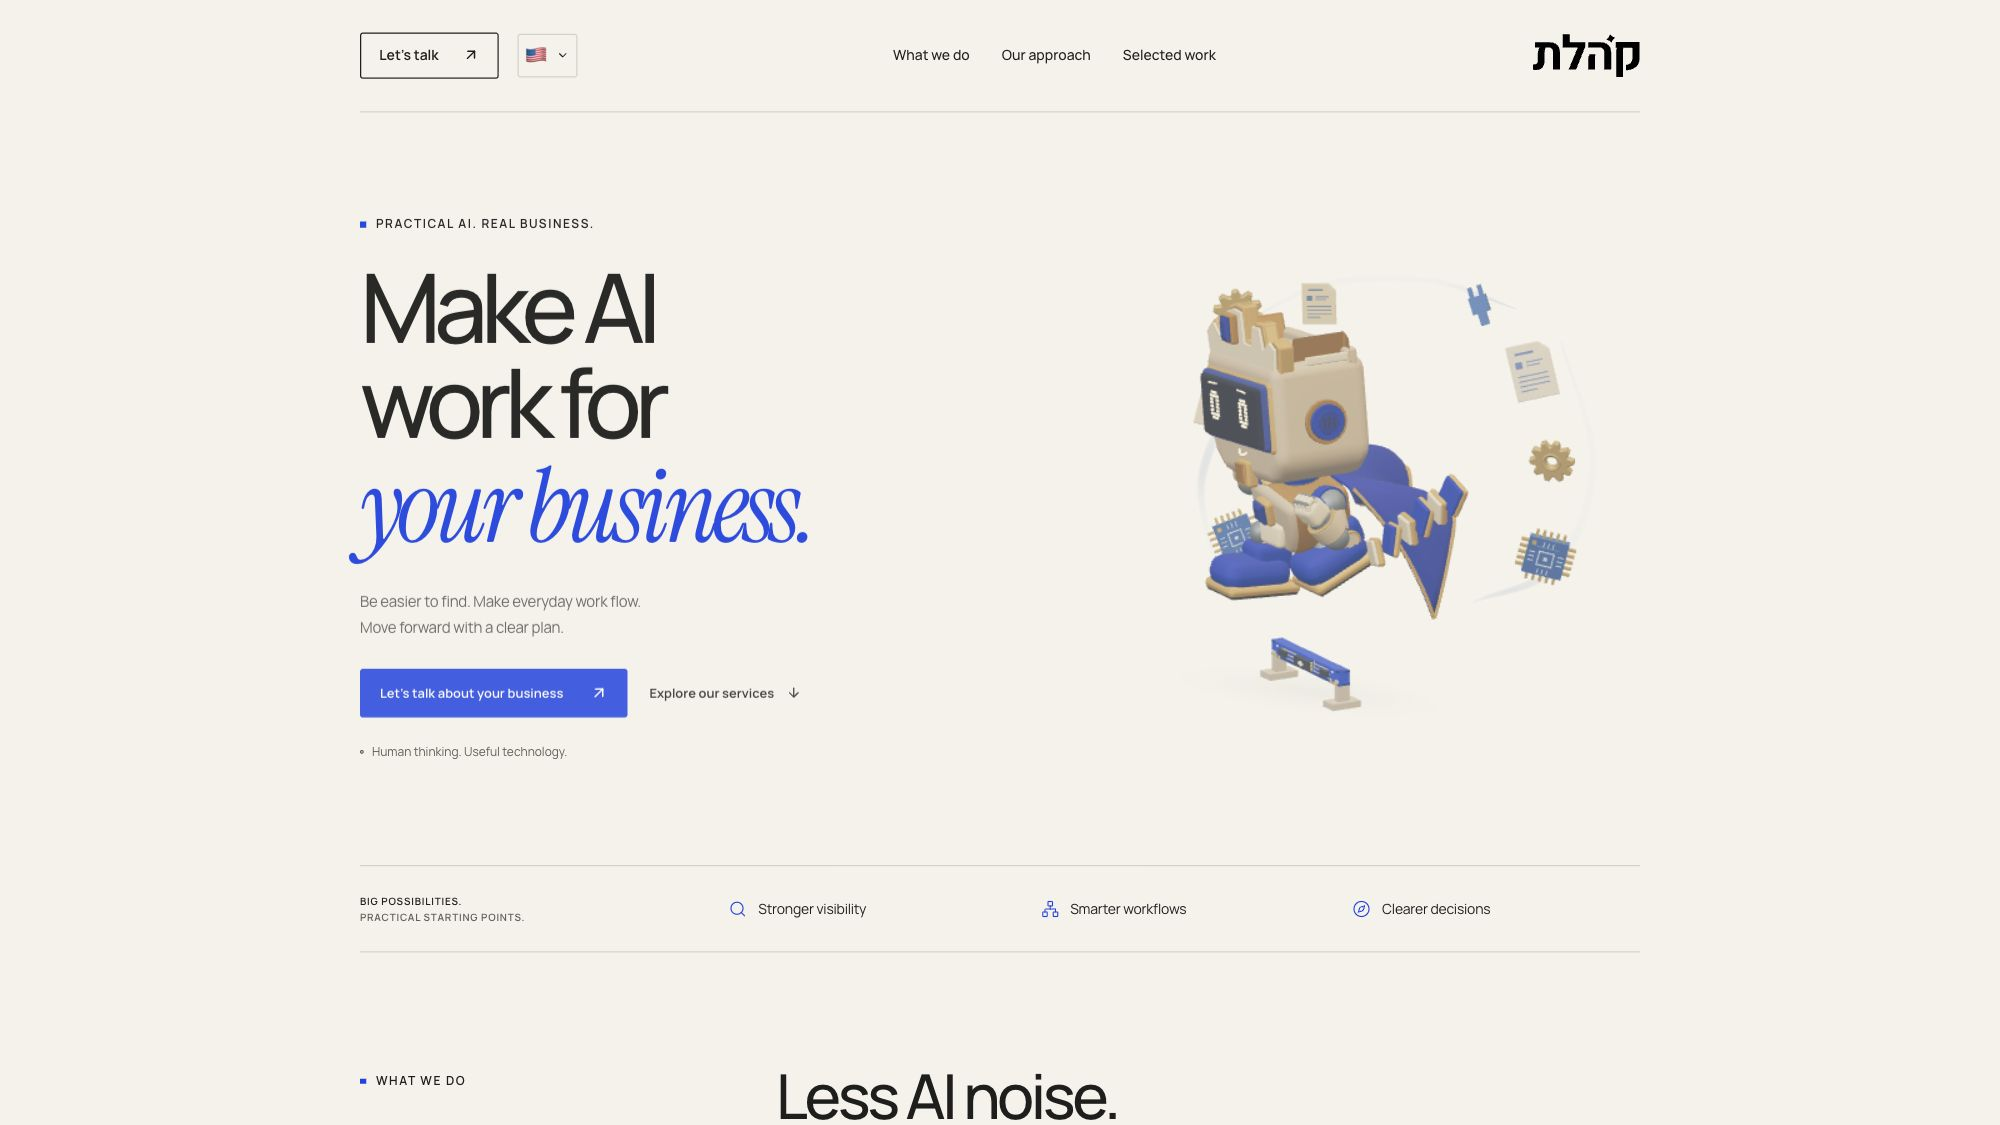
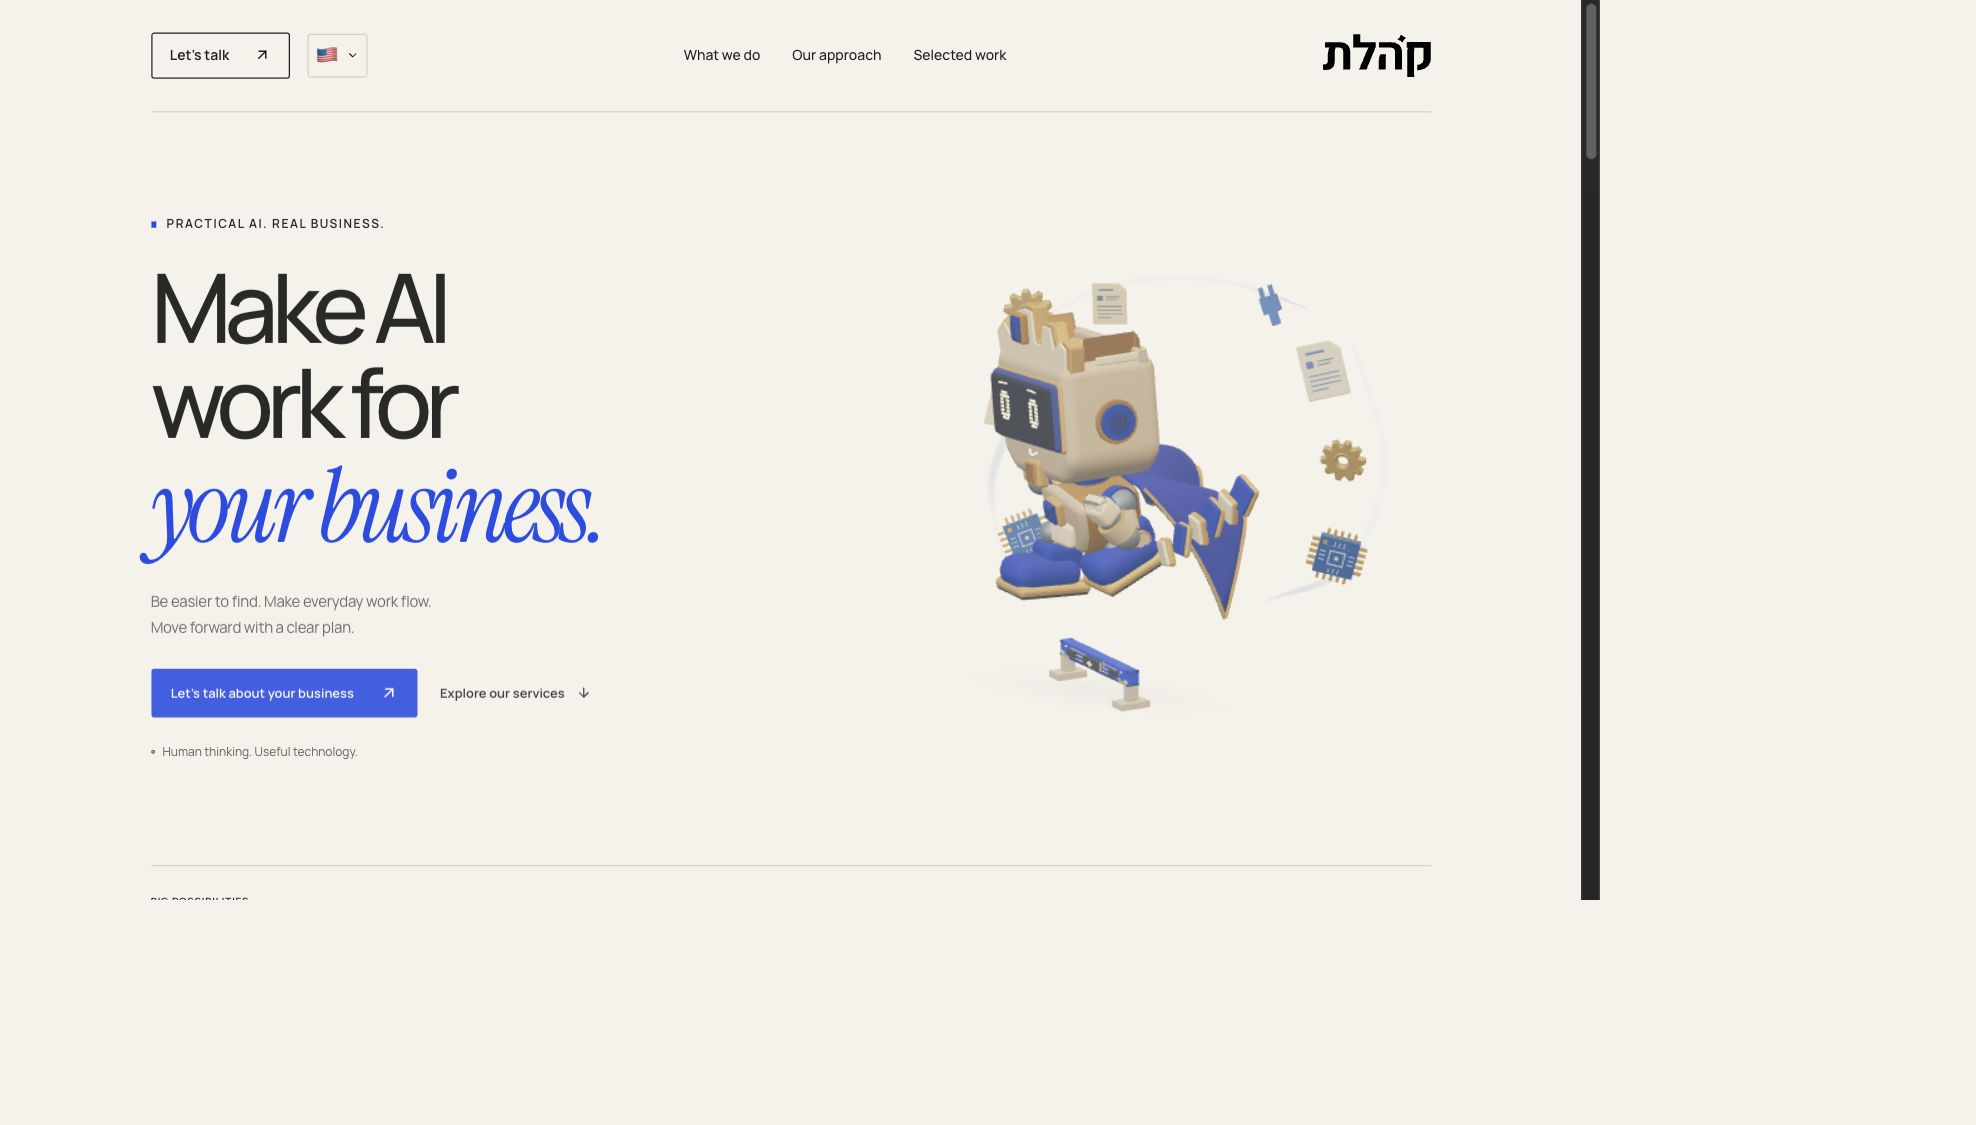
docs(landing): correct scenery screenshot framing (#11)

diff --git a/evidence/issue-11/scenery/README.md b/evidence/issue-11/scenery/README.md
@@ -19,18 +19,18 @@ All additions are original procedural Three.js geometry. No new asset download, 
 - Final production-browser English and Hebrew at actual CSS widths **320 / 390 / 768 / 1440**: ready playing canvas, correct language/direction, zero mascot buttons and no horizontal overflow. [Measurements](browser-results.json).
 - Reviewed the hurdle approach, airborne clearance, landing and coding composition in the production browser. [Pose record](pose-results.json).
 - Normal-speed desktop sample: **144.0fps**, **0.59ms CPU submission/update**, DPR **0.80**, **60 draws / 44,096 triangles**. Browser error/warning log empty. [Runtime record](runtime-results.json). This is one Mac/display setup; CPU timing is not GPU timing or a phone performance guarantee.
-- Artwork-only frames contain **57,122 pixels** differing by more than 12 in the same 715 × 715 raster region. [Motion comparison](motion-pixel-results.json).
+- Matched screenshot regions contain **57,122 pixels** differing by more than 12 during playback in the same 715 × 715 raster area. [Motion comparison](motion-pixel-results.json).
 - Main preview on port 3103 was restarted with the final optimized build, confirmed ready/playing, with no warnings/errors. Temporary development/QA servers and tabs were closed.
 
 The fixed camera includes the new scenery; the robot is approximately 9.3% smaller than in the earlier character-only frame. Desktop/mobile inspection confirms the character and obstacle remain legible. System reduced-motion, offscreen/hidden suspension and cleanup remain source-reviewed; those system events were not newly emulated. No physical mobile performance test or live form submission was performed.
 
 ## Screenshots
 
-[Jump in page](jump-desktop.jpg) · [Jump artwork](jump-artwork.jpg) · [Approach](approach-desktop.jpg) · [Landing](landing-desktop.jpg) · [Coding](coding-desktop.jpg)
+[Jump in page](jump-desktop.jpg) · [Approach](approach-desktop.jpg) · [Landing](landing-desktop.jpg) · [Coding](coding-desktop.jpg)
 
 [English mobile](english-mobile.jpg) · [Hebrew mobile](hebrew-mobile.jpg) · [Hebrew desktop](hebrew-desktop.jpg)
 
-Pose screenshots use the existing opt-in diagnostic playback at one-tenth speed. Normal visitors run at full speed. Hebrew screenshots retain browser canvas context to avoid the browser screenshot tool's RTL clipping issue.
+Pose screenshots use the existing opt-in diagnostic playback at one-tenth speed. Normal visitors run at full speed. The jump and Hebrew screenshots retain browser canvas context to avoid the browser screenshot tool's clipping issue.
 
 [English preview](http://127.0.0.1:3103/codex-landing) · [Hebrew preview](http://127.0.0.1:3103/he/codex-landing) · [PR #12](https://github.com/itaibiton/kohelet/pull/12)
 
